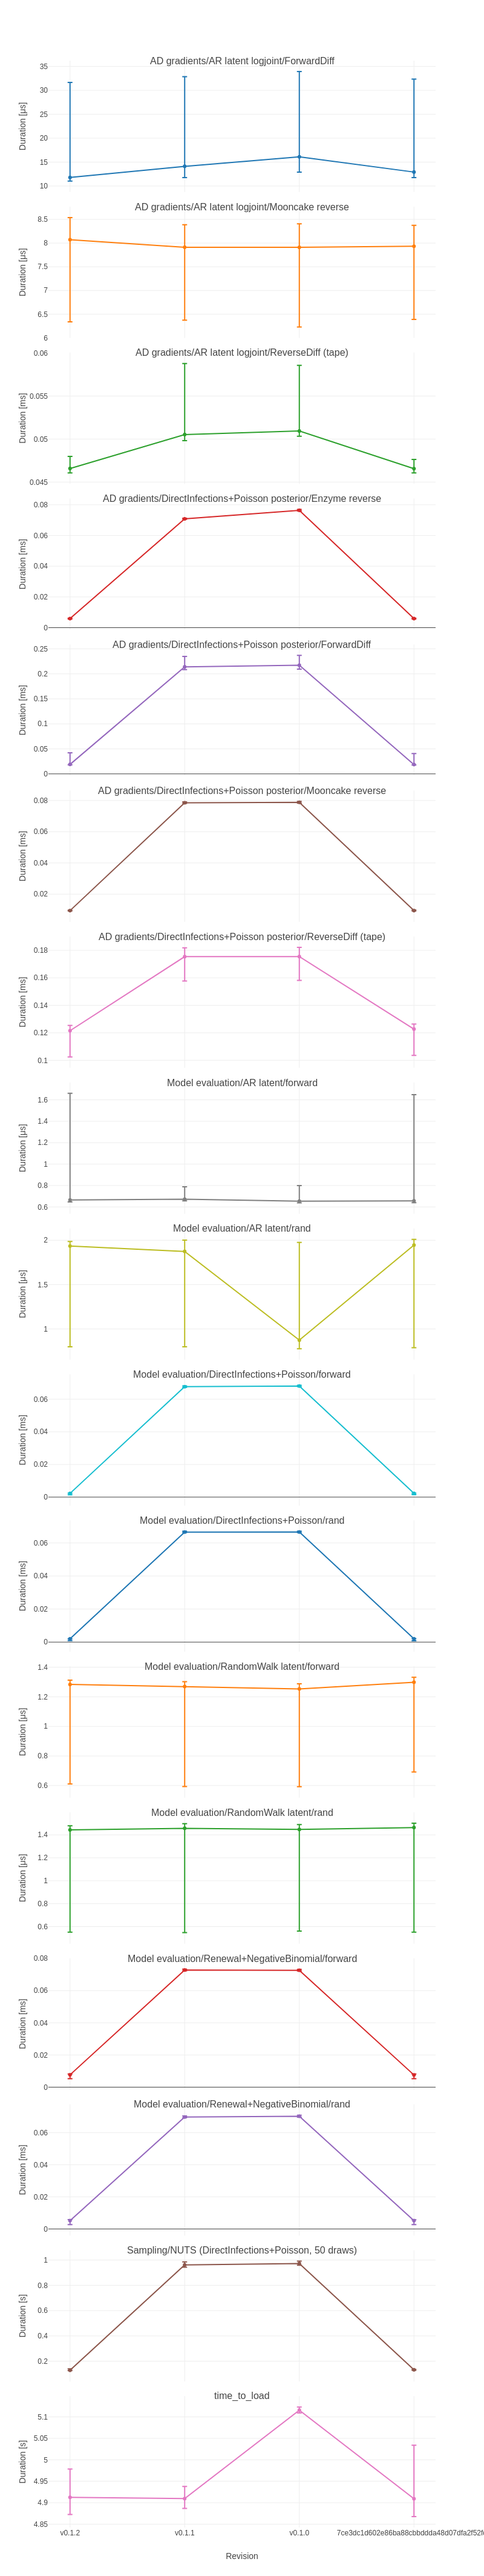
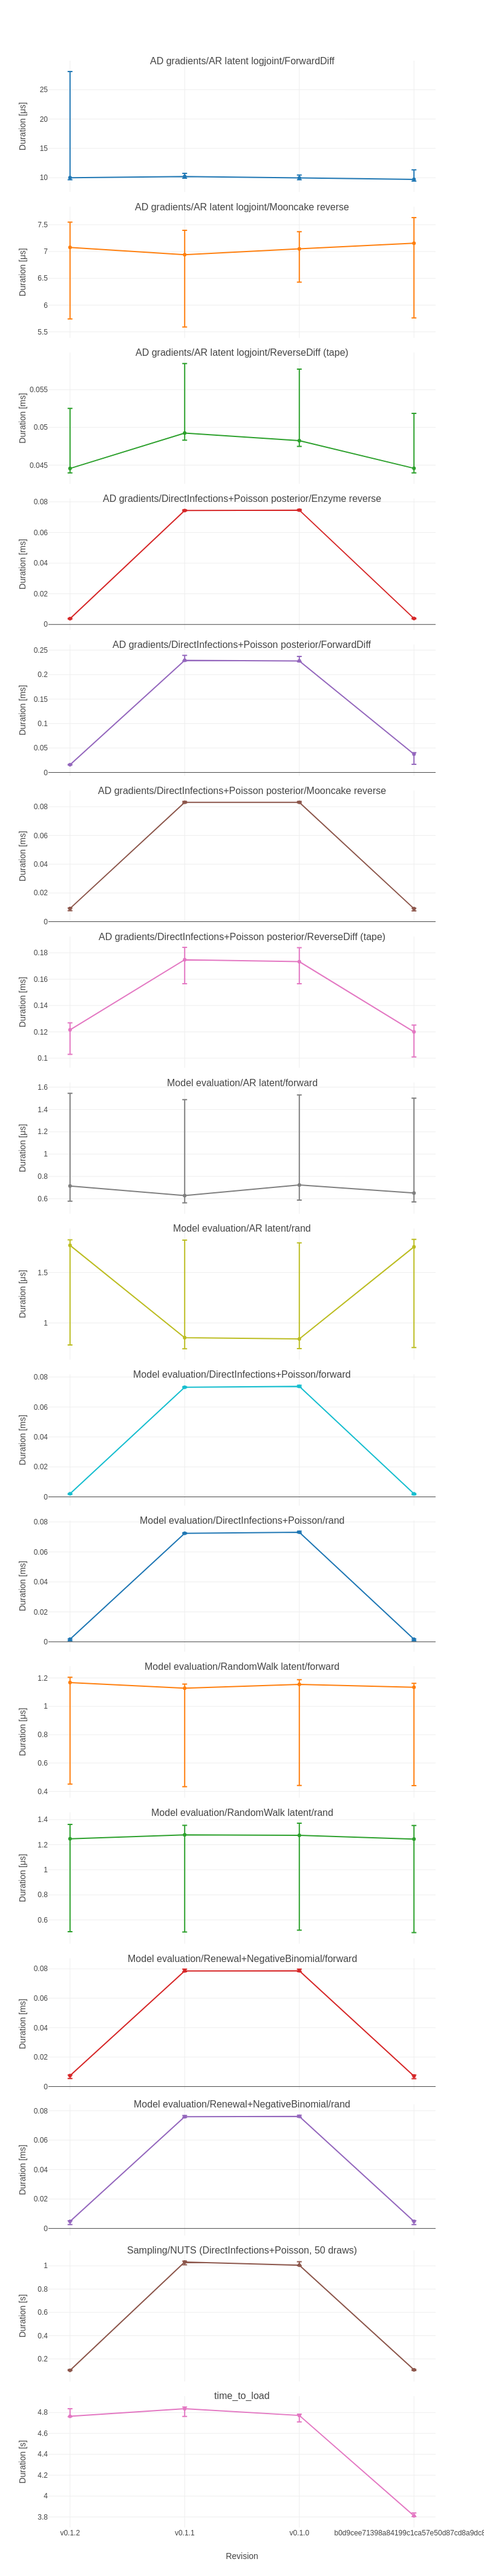
Deploying to benchmarks from @ EpiAware/ComposableTuringIDModels.jl@b0d9cee71398a84199c1ca57e50d87cd8a9dc84d 🚀

diff --git a/history/table.md b/history/table.md
@@ -1,32 +1,32 @@
-|                                                                    | v0.1.2             | v0.1.1              | v0.1.0              | 7ce3dc1d602e86...  |
+|                                                                    | v0.1.2             | v0.1.1              | v0.1.0              | b0d9cee71398a8...  |
 |:-------------------------------------------------------------------|:------------------:|:-------------------:|:-------------------:|:------------------:|
-| AD gradients/AR latent logjoint/ForwardDiff                        | 11.8 ± 21 μs       | 14.1 ± 21 μs        | 16.1 ± 21 μs        | 12.9 ± 21 μs       |
-| AD gradients/AR latent logjoint/Mooncake reverse                   | 8.07 ± 2.2 μs      | 7.91 ± 2 μs         | 7.91 ± 2.2 μs       | 7.93 ± 2 μs        |
-| AD gradients/AR latent logjoint/ReverseDiff (tape)                 | 0.0466 ± 0.0019 ms | 0.0505 ± 0.009 ms   | 0.0509 ± 0.0082 ms  | 0.0466 ± 0.0016 ms |
-| AD gradients/DirectInfections+Poisson posterior/Enzyme reverse     | 5.9 ± 0.49 μs      | 0.0708 ± 0.00078 ms | 0.0764 ± 0.00094 ms | 5.92 ± 0.5 μs      |
-| AD gradients/DirectInfections+Poisson posterior/ForwardDiff        | 19 ± 24 μs         | 0.214 ± 0.026 ms    | 0.217 ± 0.027 ms    | 18.6 ± 23 μs       |
-| AD gradients/DirectInfections+Poisson posterior/Mooncake reverse   | 9.44 ± 0.44 μs     | 0.0786 ± 0.00097 ms | 0.0788 ± 0.001 ms   | 9.45 ± 0.5 μs      |
-| AD gradients/DirectInfections+Poisson posterior/ReverseDiff (tape) | 0.122 ± 0.023 ms   | 0.175 ± 0.024 ms    | 0.175 ± 0.024 ms    | 0.123 ± 0.023 ms   |
-| Model evaluation/AR latent/forward                                 | 0.665 ± 1 μs       | 0.672 ± 0.13 μs     | 0.654 ± 0.16 μs     | 0.657 ± 1 μs       |
-| Model evaluation/AR latent/rand                                    | 1.94 ± 1.2 μs      | 1.87 ± 1.2 μs       | 0.873 ± 1.2 μs      | 1.95 ± 1.2 μs      |
-| Model evaluation/DirectInfections+Poisson/forward                  | 2.27 ± 0.97 μs     | 0.0676 ± 0.00089 ms | 0.068 ± 0.00085 ms  | 2.29 ± 0.96 μs     |
-| Model evaluation/DirectInfections+Poisson/rand                     | 1.98 ± 1.1 μs      | 0.0666 ± 0.00082 ms | 0.0666 ± 0.00082 ms | 2 ± 1.2 μs         |
-| Model evaluation/RandomWalk latent/forward                         | 1.28 ± 0.7 μs      | 1.27 ± 0.71 μs      | 1.25 ± 0.7 μs       | 1.3 ± 0.64 μs      |
-| Model evaluation/RandomWalk latent/rand                            | 1.44 ± 0.93 μs     | 1.46 ± 0.95 μs      | 1.45 ± 0.93 μs      | 1.46 ± 0.95 μs     |
-| Model evaluation/Renewal+NegativeBinomial/forward                  | 7.68 ± 2.9 μs      | 0.0728 ± 0.00097 ms | 0.0726 ± 0.00094 ms | 7.59 ± 2.8 μs      |
-| Model evaluation/Renewal+NegativeBinomial/rand                     | 5.21 ± 3 μs        | 0.0698 ± 0.0012 ms  | 0.0702 ± 0.0012 ms  | 5.19 ± 3.1 μs      |
-| Sampling/NUTS (DirectInfections+Poisson, 50 draws)                 | 0.128 ± 0.014 s    | 0.962 ± 0.041 s     | 0.973 ± 0.033 s     | 0.132 ± 0.0056 s   |
-| time_to_load                                                       | 4.91 ± 0.11 s      | 4.91 ± 0.051 s      | 5.12 ± 0.014 s      | 4.91 ± 0.17 s      |
+| AD gradients/AR latent logjoint/ForwardDiff                        | 10 ± 18 μs         | 10.2 ± 0.82 μs      | 9.96 ± 0.82 μs      | 9.71 ± 1.9 μs      |
+| AD gradients/AR latent logjoint/Mooncake reverse                   | 7.08 ± 1.8 μs      | 6.94 ± 1.8 μs       | 7.05 ± 0.94 μs      | 7.16 ± 1.9 μs      |
+| AD gradients/AR latent logjoint/ReverseDiff (tape)                 | 0.0446 ± 0.0086 ms | 0.0493 ± 0.01 ms    | 0.0482 ± 0.01 ms    | 0.0446 ± 0.0079 ms |
+| AD gradients/DirectInfections+Poisson posterior/Enzyme reverse     | 3.79 ± 0.41 μs     | 0.0743 ± 0.00075 ms | 0.0746 ± 0.00073 ms | 3.9 ± 0.42 μs      |
+| AD gradients/DirectInfections+Poisson posterior/ForwardDiff        | 15.8 ± 0.91 μs     | 0.229 ± 0.011 ms    | 0.228 ± 0.011 ms    | 0.0374 ± 0.024 ms  |
+| AD gradients/DirectInfections+Poisson posterior/Mooncake reverse   | 9.17 ± 1.8 μs      | 0.0831 ± 0.001 ms   | 0.0831 ± 0.00097 ms | 9.06 ± 1.9 μs      |
+| AD gradients/DirectInfections+Poisson posterior/ReverseDiff (tape) | 0.122 ± 0.024 ms   | 0.175 ± 0.028 ms    | 0.173 ± 0.027 ms    | 0.12 ± 0.024 ms    |
+| Model evaluation/AR latent/forward                                 | 0.714 ± 0.97 μs    | 0.628 ± 0.92 μs     | 0.723 ± 0.94 μs     | 0.651 ± 0.93 μs    |
+| Model evaluation/AR latent/rand                                    | 1.77 ± 1 μs        | 0.854 ± 1.1 μs      | 0.842 ± 1 μs        | 1.75 ± 1.1 μs      |
+| Model evaluation/DirectInfections+Poisson/forward                  | 2.06 ± 0.56 μs     | 0.0732 ± 0.00074 ms | 0.0737 ± 0.0012 ms  | 2.04 ± 0.76 μs     |
+| Model evaluation/DirectInfections+Poisson/rand                     | 1.76 ± 1.1 μs      | 0.0724 ± 0.00067 ms | 0.0731 ± 0.001 ms   | 1.73 ± 1.1 μs      |
+| Model evaluation/RandomWalk latent/forward                         | 1.17 ± 0.75 μs     | 1.13 ± 0.72 μs      | 1.16 ± 0.75 μs      | 1.13 ± 0.72 μs     |
+| Model evaluation/RandomWalk latent/rand                            | 1.25 ± 0.86 μs     | 1.28 ± 0.85 μs      | 1.27 ± 0.85 μs      | 1.25 ± 0.85 μs     |
+| Model evaluation/Renewal+NegativeBinomial/forward                  | 7.42 ± 2.4 μs      | 0.0786 ± 0.0017 ms  | 0.0787 ± 0.0016 ms  | 7.12 ± 2.5 μs      |
+| Model evaluation/Renewal+NegativeBinomial/rand                     | 4.81 ± 2.6 μs      | 0.0759 ± 0.0013 ms  | 0.0761 ± 0.0014 ms  | 4.82 ± 2.6 μs      |
+| Sampling/NUTS (DirectInfections+Poisson, 50 draws)                 | 0.102 ± 0.0078 s   | 1.03 ± 0.032 s      | 1.01 ± 0.034 s      | 0.106 ± 0.0089 s   |
+| time_to_load                                                       | 4.76 ± 0.077 s     | 4.84 ± 0.089 s      | 4.77 ± 0.074 s      | 3.81 ± 0.035 s     |
 
-|                                                                    | v0.1.2                    | v0.1.1                    | v0.1.0                    | 7ce3dc1d602e86...         |
+|                                                                    | v0.1.2                    | v0.1.1                    | v0.1.0                    | b0d9cee71398a8...         |
 |:-------------------------------------------------------------------|:-------------------------:|:-------------------------:|:-------------------------:|:-------------------------:|
 | AD gradients/AR latent logjoint/ForwardDiff                        | 0.059 k allocs: 0.0512 MB | 0.056 k allocs: 0.0508 MB | 0.056 k allocs: 0.0508 MB | 0.059 k allocs: 0.0512 MB |
 | AD gradients/AR latent logjoint/Mooncake reverse                   | 0.043 k allocs: 4.64 kB   | 0.036 k allocs: 4.42 kB   | 0.036 k allocs: 4.42 kB   | 0.043 k allocs: 4.64 kB   |
-| AD gradients/AR latent logjoint/ReverseDiff (tape)                 | 0.738 k allocs: 30.6 kB   | 0.775 k allocs: 0.0319 MB | 0.775 k allocs: 0.0319 MB | 0.738 k allocs: 30.6 kB   |
-| AD gradients/DirectInfections+Poisson posterior/Enzyme reverse     | 0.034 k allocs: 4.36 kB   | 0.242 k allocs: 12.3 kB   | 0.242 k allocs: 12.3 kB   | 0.035 k allocs: 4.39 kB   |
+| AD gradients/AR latent logjoint/ReverseDiff (tape)                 | 0.73 k allocs: 30.4 kB    | 0.764 k allocs: 0.0315 MB | 0.764 k allocs: 0.0315 MB | 0.73 k allocs: 30.4 kB    |
+| AD gradients/DirectInfections+Poisson posterior/Enzyme reverse     | 0.036 k allocs: 4.41 kB   | 0.244 k allocs: 12.4 kB   | 0.244 k allocs: 12.4 kB   | 0.037 k allocs: 4.44 kB   |
 | AD gradients/DirectInfections+Poisson posterior/ForwardDiff        | 0.068 k allocs: 0.0591 MB | 0.68 k allocs: 0.0835 MB  | 0.68 k allocs: 0.0835 MB  | 0.068 k allocs: 0.0591 MB |
-| AD gradients/DirectInfections+Poisson posterior/Mooncake reverse   | 0.038 k allocs: 4.83 kB   | 0.316 k allocs: 14.9 kB   | 0.316 k allocs: 14.9 kB   | 0.038 k allocs: 4.83 kB   |
-| AD gradients/DirectInfections+Poisson posterior/ReverseDiff (tape) | 1.7 k allocs: 0.0643 MB   | 1.65 k allocs: 0.0654 MB  | 1.65 k allocs: 0.0654 MB  | 1.7 k allocs: 0.0643 MB   |
+| AD gradients/DirectInfections+Poisson posterior/Mooncake reverse   | 0.038 k allocs: 4.83 kB   | 0.346 k allocs: 15.9 kB   | 0.346 k allocs: 15.9 kB   | 0.038 k allocs: 4.83 kB   |
+| AD gradients/DirectInfections+Poisson posterior/ReverseDiff (tape) | 1.68 k allocs: 0.0637 MB  | 1.58 k allocs: 0.062 MB   | 1.58 k allocs: 0.062 MB   | 1.68 k allocs: 0.0637 MB  |
 | Model evaluation/AR latent/forward                                 | 21  allocs: 2.44 kB       | 20  allocs: 2.41 kB       | 20  allocs: 2.41 kB       | 21  allocs: 2.44 kB       |
 | Model evaluation/AR latent/rand                                    | 23  allocs: 2.86 kB       | 22  allocs: 2.83 kB       | 22  allocs: 2.83 kB       | 23  allocs: 2.86 kB       |
 | Model evaluation/DirectInfections+Poisson/forward                  | 23  allocs: 2.52 kB       | 0.35 k allocs: 15.8 kB    | 0.35 k allocs: 15.8 kB    | 23  allocs: 2.52 kB       |
@@ -35,6 +35,6 @@
 | Model evaluation/RandomWalk latent/rand                            | 16  allocs: 2.08 kB       | 15  allocs: 2.05 kB       | 15  allocs: 2.05 kB       | 16  allocs: 2.08 kB       |
 | Model evaluation/Renewal+NegativeBinomial/forward                  | 0.153 k allocs: 8.28 kB   | 0.57 k allocs: 23.7 kB    | 0.57 k allocs: 23.7 kB    | 0.153 k allocs: 8.28 kB   |
 | Model evaluation/Renewal+NegativeBinomial/rand                     | 0.148 k allocs: 8.38 kB   | 0.567 k allocs: 23 kB     | 0.567 k allocs: 23 kB     | 0.148 k allocs: 8.38 kB   |
-| Sampling/NUTS (DirectInfections+Poisson, 50 draws)                 | 0.479 M allocs: 0.269 GB  | 2.99 M allocs: 0.371 GB   | 2.99 M allocs: 0.371 GB   | 0.479 M allocs: 0.269 GB  |
-| time_to_load                                                       | 0.149 k allocs: 11.2 kB   | 0.149 k allocs: 11.2 kB   | 0.149 k allocs: 11.2 kB   | 0.149 k allocs: 11.2 kB   |
+| Sampling/NUTS (DirectInfections+Poisson, 50 draws)                 | 0.369 M allocs: 0.252 GB  | 2.88 M allocs: 0.354 GB   | 2.88 M allocs: 0.354 GB   | 0.369 M allocs: 0.252 GB  |
+| time_to_load                                                       | 0.2 k allocs: 11.8 kB     | 0.204 k allocs: 11.9 kB   | 0.2 k allocs: 11.8 kB     | 0.2 k allocs: 11.8 kB     |
 

diff --git a/history/README.md b/history/README.md
@@ -1,6 +1,6 @@
 # ComposableTuringIDModels.jl benchmark history
 
-Revisions: v0.1.2,v0.1.1,v0.1.0,7ce3dc1d602e86ba88cbbddda48d07dfa2f52fd9
+Revisions: v0.1.2,v0.1.1,v0.1.0,b0d9cee71398a84199c1ca57e50d87cd8a9dc84d
 
 See `table.md` for the ratio summary and the PNG
 files in this folder for per-benchmark timelines.
